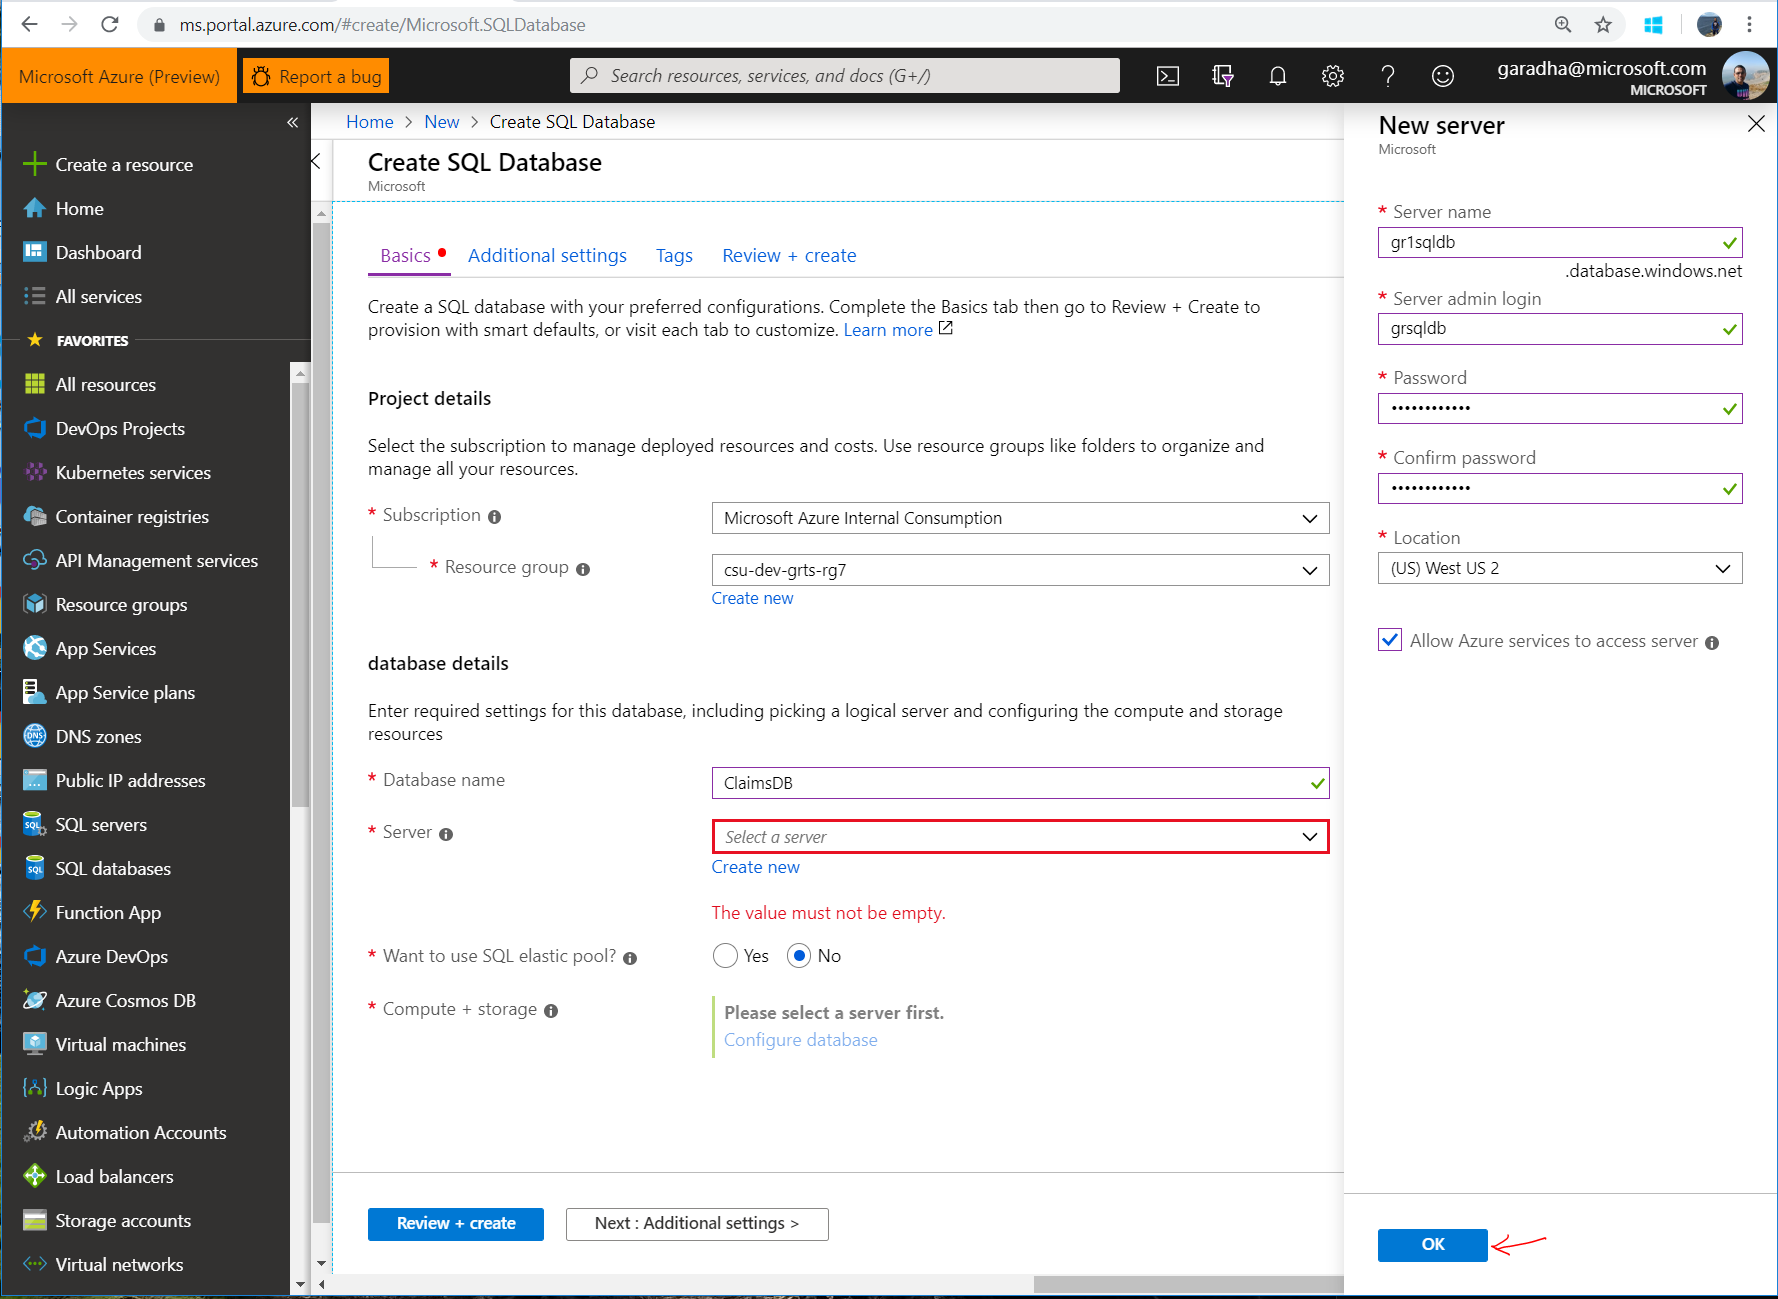
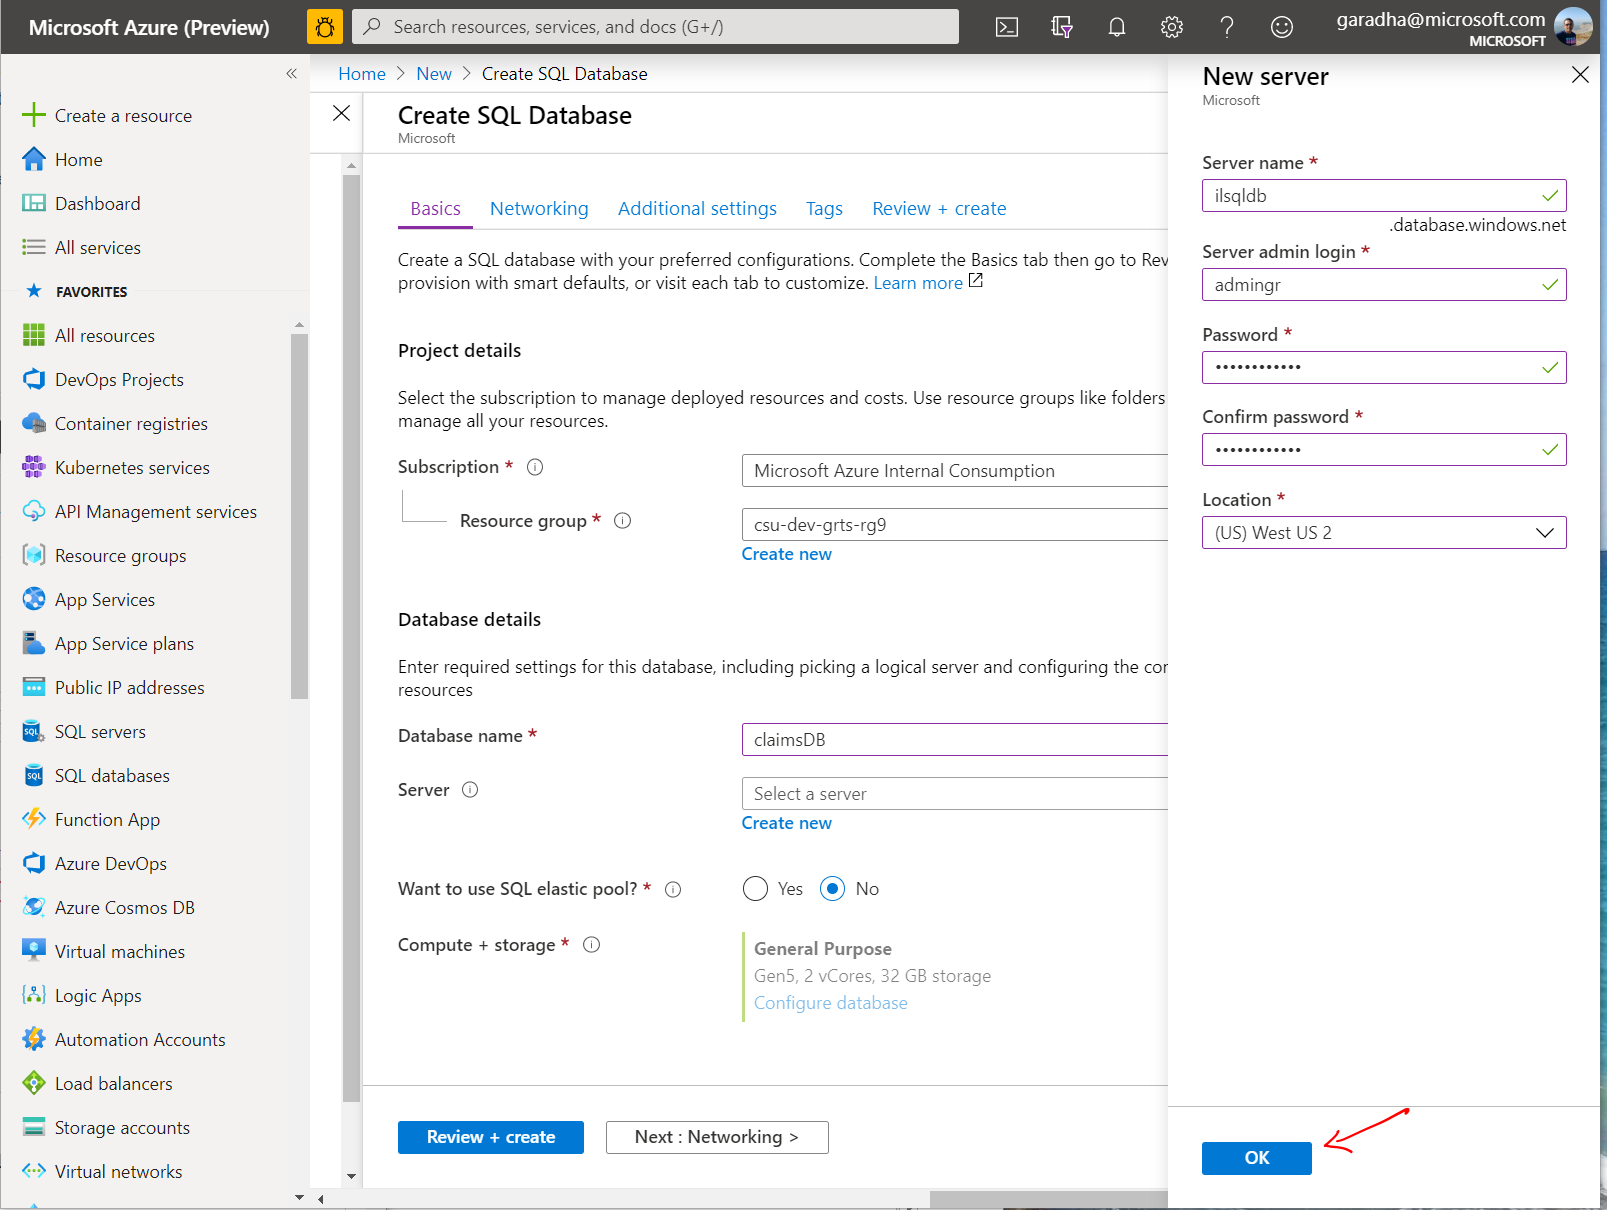
Updated Readme doc and images

diff --git a/README.md b/README.md
@@ -107,15 +107,13 @@ In this section, we will create an Azure SQL Server instance and create a databa
 
     For the **Location** field, use the same location which you specified for the resource group.
 
-    Check the box besides field **Allow Azure services to access server**.
-
     See screenshot below.
 
     ![alt tag](./images/A-07.PNG)
 
-    Click on **Ok**.
+    Click on **OK**.
 
-    In the **Basics** tab, click on **Configure database** and select the **basic** SKU.  See screenshots below.
+    In the **Basics** tab, click on **Configure database** and select the **Basic** SKU.  See screenshots below.
 
     ![alt tag](./images/A-08.PNG)
 
@@ -125,9 +123,11 @@ In this section, we will create an Azure SQL Server instance and create a databa
 
     Click **Apply**.
 
-    In the **Basics** tab, click on **Review + create**.  Review and make sure all options you have selected are correct.  See screenshots below.
+    Click on **Next : Networking >** at the bottom of the web page.  In the **Networking** tab, select *Public endpoint* for **Connectivity method**.  Also, enable the button besides **Allow Azure services and resources to access this server**.  Next, click on **Review + create**.  See screenshot below.
 
-    ![alt tag](./images/A-03.PNG)
+    ![alt tag](./images/A-12.PNG)
+
+    Review and make sure all options you have selected are correct.
 
     ![alt tag](./images/A-11.PNG)
 
